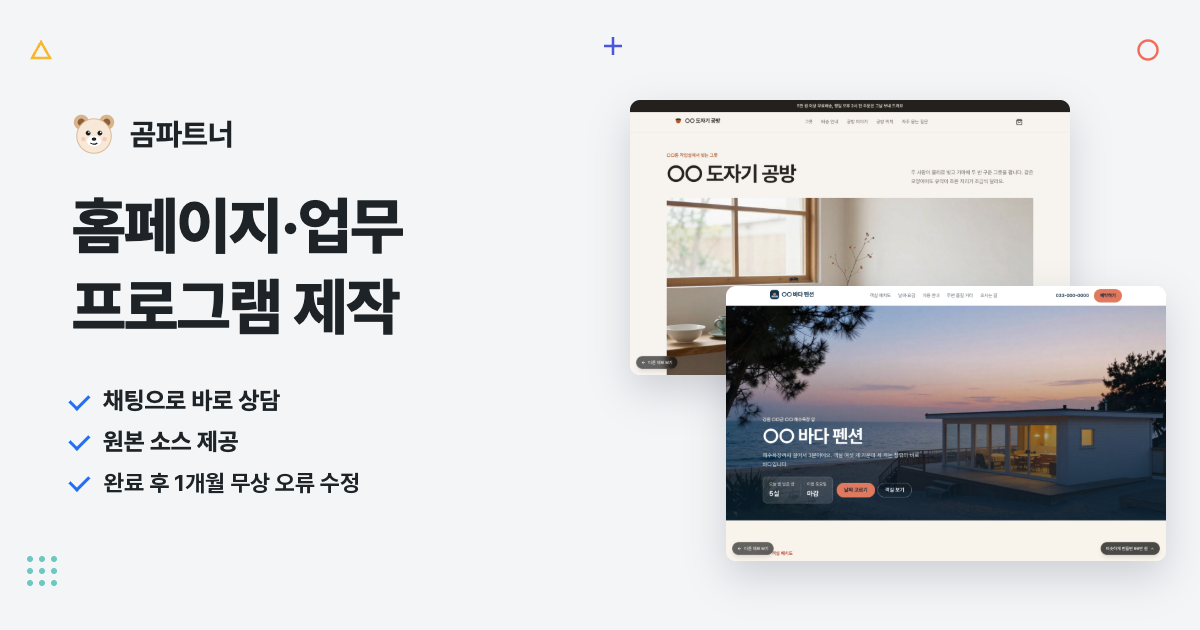
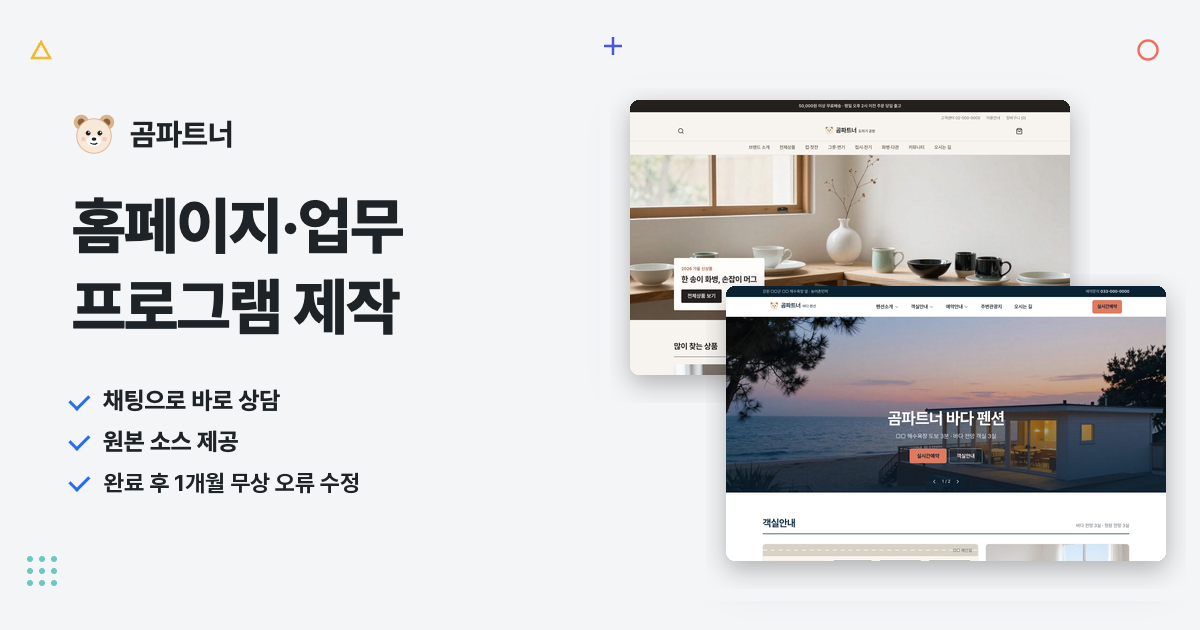
대표 공유 이미지의 데모 화면을 지금 곰파트너 화면으로

Changed region(s): [[0.5242, 0.1508, 0.9867, 0.9048], [0.8017, 0.181, 0.8633, 0.2111], [0.555, 0.181, 0.6167, 0.2111]]

diff --git a/app/layout.tsx b/app/layout.tsx
@@ -60,7 +60,7 @@ export const metadata: Metadata = {
     description: siteDescription,
     images: [
       {
-        url: "/og-image.png?v=20261007c",
+        url: "/og-image.png?v=20261008",
         width: 1200,
         height: 630,
         alt: `${profile.name} 홈페이지·업무 프로그램 제작`,
@@ -71,7 +71,7 @@ export const metadata: Metadata = {
     card: "summary_large_image",
     title: siteTitle,
     description: siteDescription,
-    images: ["/og-image.png?v=20261007c"],
+    images: ["/og-image.png?v=20261008"],
   },
   verification: {
     other: { "naver-site-verification": ["1c5242ef5ddbce4e807bad7225bb0770a1cb06c1", "184bef35395b609c58d44964bf16993e76c0dd50"] },
